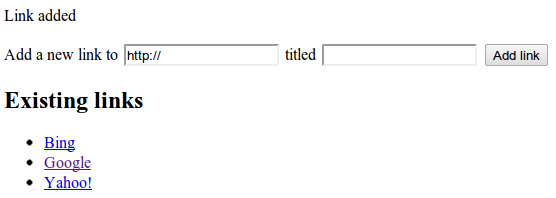
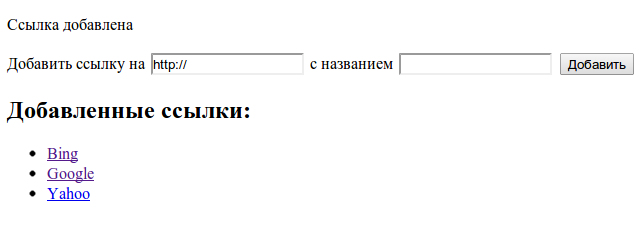
Глава 13 (ПРПРВ): выполнение #96

diff --git a/tex/13. Yesod's Monads.tex b/tex/13. Yesod's Monads.tex
@@ -1,188 +1,197 @@
 \chapter{Монады в Yesod}\label{chap:yesod_monads}
 
-Как вы уже увидели, в этой книге появлялось несколько монад: \lstinline'Handler',
-\lstinline'Widget' и \lstinline'YesodDB'
-(для \lstinline'Persistent'). Как и всякая монада, каждая из них предоставляет некоторую
-специфическую функциональность: \lstinline'Handler' предоставляет доступ к запросу и
-позволяет
-отправлять ответы, Widget содержит HTML, CSS и Javascript, а YesodDB позволяет делать
-запросы к базе данных. В терминах Model-View-Controller (MVC), мы могли бы рассматривать
-\lstinline'YesodDB' как модель, \lstinline'Widget'~--- как представление, а
-\lstinline'Handler'~--- как контроллер.
+Как вы уже увидели, в этой книге появлялось несколько монад:
+\lstinline'Handler', \lstinline'Widget' и~\lstinline'YesodDB' (для~Persistent).
+Как и всякая монада, каждая из них предоставляет некоторую специфическую
+функциональность: \lstinline'Handler' предоставляет доступ к запросу и позволяет
+отправлять ответы, \lstinline'Widget' содержит HTML, CSS и Javascript, а
+\lstinline'YesodDB' позволяет делать запросы к базе данных. В терминах
+Model-View-Controller~(MVC), мы могли бы рассматривать \lstinline'YesodDB' как
+модель, \lstinline'Widget'~--- как представление, а~\lstinline'Handler'~--- как
+контроллер.
 
-До сих пор у нас были представлены очень простые способы использования этих монад: 
-основной обработчик работает в монаде \lstinline'Handler', используя \lstinline'runDB' для
-выполнения запроса в YesodDB и \lstinline'defaultLayout' для возврата монады
-\lstinline'Widget', которая, в свою очередь, была создана
-вызовом \lstinline'toWidget'.
+До сих пор у нас были представлены очень простые способы использования этих
+монад: основной обработчик работает в монаде \lstinline'Handler', используя
+\lstinline'runDB' для выполнения запроса~\lstinline'YesodDB' и
+\lstinline'defaultLayout' для возврата~\lstinline'Widget', который, в свою
+очередь, был создан вызовом~\lstinline'toWidget'.
 
-Тем не менее, если у нас будет глубокое понимание этих типов, мы сможем достичь более интересных результатов.
+Тем не менее, если у нас будет глубокое понимание этих типов, мы сможем достичь
+более интересных результатов.
 
 \section{Трансформаторы монад}
-
-\vspace{1em}\hfill{}\begin{minipage}{150pt}{\begin{spacing}{0.9}
-\small\noindent\textit{Монады, они как луковицы. Монады не как пирожные.}\end{spacing}
-\vspace{1em}
-\hfill{}{Вроде бы Шрек.}}\vspace{2em}
+\hfill \begin{minipage}[h]{0.45\textwidth}
+    \small
+    Монады, они как луковицы. Монады \emph{не как} пирожные.
+    \begin{flushright}
+        \emph{Вроде бы Шрек}
+    \end{flushright}
 \end{minipage}
+\vspace{2em}
 
-Прежде чем мы углубимся в монады Yesod, мы должны немного понимать трансформаторы монад. 
-(Если вы уже знаете о трансформаторах монад всё, вы, скорее всего, можете пропустить этот
-раздел.) Различные монады предоставляют различную функциональность: \lstinline'Reader'
-предоставляет доступ только для чтения к некоторым данных по всему вычислению,
-\lstinline'Error' позволяет обрывать вычисления, и так далее.
+Прежде чем мы углубимся в монады Yesod, мы должны немного понимать
+трансформаторы монад.  (Если вы уже знаете о трансформаторах монад всё, вы,
+скорее всего, можете пропустить этот раздел.) Различные монады предоставляют
+различную функциональность: \lstinline'Reader' предоставляет доступ только для
+чтения к некоторым данных по всему вычислению, \lstinline'Error' позволяет
+обрывать вычисления, и так далее.
 
-Однако, часто вы захотите иметь возможность объединить функциональные возможности 
-некоторых из этих монад. В конце концов, почему бы не иметь вычисление с доступом только
-для чтения к некоторым параметрам настройки, которое в любой момент могло бы прерваться с
-ошибкой? Одним из подходов было бы написать новую монаду, например
-\lstinline'ReaderError', но это имеет очевидный недостаток экспоненциальной сложности:
-будет нужно писать новую монаду для каждой возможной комбинации.
+Часто, однако, хотелось бы иметь возможность комбинировать функциональность
+некоторых из этих монад. В конце концов, почему бы не иметь вычисление с
+доступом только для чтения к некоторым параметрам настройки, которое в любой
+момент могло бы прерваться с ошибкой? Одним из подходов к решению могло бы стать
+написание новой монады, например \lstinline'ReaderError', но это имеет очевидный
+недостаток экспоненциальной сложности: потребуется писать новую монаду для
+каждой возможной комбинации.
 
-Вместо этого мы используем трансформаторы монад. Вместе с \lstinline'Reader', у нас есть
-\lstinline'ReaderT', который добавляет функциональность \lstinline'Reader' к любой другой
-монаде. Таким образом, мы могли бы представить \lstinline'ReaderError' как
-(концептуально):
-
+Вместо этого мы используем трансформаторы монад. Вместе с \lstinline'Reader', у
+нас есть \lstinline'ReaderT', который добавляет функциональность
+\lstinline'Reader' к любой другой монаде. Таким образом, мы могли бы представить
+\lstinline'ReaderError' так (концептуально):
 \begin{lstlisting}
 type ReaderError = ReaderT Error
 \end{lstlisting}
 
-Чтобы получить доступ к параметрам настройки, мы можем использовать функцию
-\lstinline'ask'. А что насчет обрывания вычисления? Мы бы хотели вызвать
+Чтобы получить доступ к параметру настройки, мы можем использовать
+функцию~\lstinline'ask'. А что насчёт обрывания вычисления? Мы бы хотели вызвать
 \lstinline'throwError', но это не вполне будет работать. Вместо этого мы должны
-использовать \lstinline'lift', что бы втянуть наш вызов в монаду на уровень выше. Другими
-словами:
-
+использовать \lstinline'lift', чтобы втянуть наш вызов в монаду на уровень
+выше. Другими словами:
 \begin{lstlisting}
 throwError :: errValue -> Error
 lift . throwError :: errValue -> ReaderT Error
 \end{lstlisting}
-  
+
 Сейчас вы должны уловить несколько идей:
 \begin{itemize}
-\item  Трансформатор может быть использован для добавления функциональных возможностей в
-существующие монады.
-\item  Трансформатор должен всегда обёртываться вокруг существующей монады.
-\item  Функциональные возможности получившейся монады будут зависеть не только от
-трансформатора монады, но и от монады, обёрнутой внутри.
+    \item  Трансформатор может быть использован для добавления функциональных
+        возможностей к существующим монадам.
+    \item  Трансформатор должен всегда обёртываться вокруг существующей монады.
+    \item  Функциональные возможности получившейся монады будут зависеть не
+        только от трансформатора монады, но и от монады, обёрнутой внутри.
 \end{itemize}
 
-Отличный пример последнего утверждения~--- это монада \lstinline'IO'. Независимо от того,
-сколько слоев трансформаторов у вас есть вокруг \lstinline'IO', там всё ещё есть ядро
-\lstinline'IO', то есть вы можете выполнять I/O в любом из этих стеков трансформаторов
-монад. Вы будете часто видеть код, который выглядит как 
-\lstinline'liftIO $ putStrLn "Hello There!"'.
+Отличный пример последнего утверждения~--- это монада \lstinline'IO'. Независимо
+от того, сколько слоёв трансформаторов у вас есть вокруг \lstinline'IO', там всё
+ещё есть ядро \lstinline'IO', то есть вы можете выполнять ввод/вывод в любом из
+этих стеков трансформаторов монад. Вы будете часто видеть код, который выглядит
+как \lstinline'liftIO $ putStrLn "Привет вам!"'.
 
 \section{Три трансформатора}
-
-Мы уже обсуждали два трансформатора ранее: \lstinline'Handler' и \lstinline'Widget'.
-Напомним два особых факта про них:
+Мы уже обсуждали два из наших трансформаторов ранее: \lstinline'Handler'
+и~\lstinline'Widget'. Напомним два особых факта про них:
 \begin{itemize}
-\item  С целью улучшения сообщений об ошибках, они не являются фактическими
-трансформаторами. Вместо этого, они объявлены как \lstinline'newtype' с жёстко заданной
-внутренней монадой. 
-\begin{remark}Помните, что именно поэтому Yesod предоставляет специальную функцию
-\lstinline'lift', которая работает для \lstinline'Handler' и \lstinline'Widget'.
-\end{remark}
-\item  На самом деле у них есть дополнительные параметры типа для дополнительного и
-основного сайта. В результате, библиотеки Yesod предоставляют 
-\lstinline'GHandler sub master a' и \lstinline'GWidget sub master a', и каждый сайт
-получает пару синонимов типов \lstinline'type Handler = GHandler MyApp MyApp' и
-\lstinline'type Widget = GWidget MyApp MyApp ()'.
+    \item  Для упрощения сообщений об ошибках они не являются фактическими
+        трансформаторами. Вместо этого, они объявлены как \lstinline'newtype' с
+        жёстко заданной внутренней монадой.
+
+        \begin{remark}
+            Помните, что именно поэтому Yesod предоставляет специальную функцию
+            \lstinline'lift', которая работает для \lstinline'Handler'
+            и~\lstinline'Widget'.
+        \end{remark}
+    \item  На самом деле у них есть дополнительные параметры для типов подсайта
+        и основного сайта. В результате, библиотеки Yesod предоставляют
+        \lstinline'GHandler sub master a' и \lstinline'GWidget sub master a', а
+        каждый сайт получает пару синонимов типов
+        \lstinline'type Handler = GHandler MyApp MyApp'
+        и~\lstinline'type Widget = GWidget MyApp MyApp ()'.
 \end{itemize}
 
-В пакете \hyperref[chap:persistent]{Persistent}, у есть класс типов который называется
-\lstinline'PersistStore'. Этот класс типов
-определяет все примитивные операции которые можно выполнять с базой данных, к примеру
-получать данные (\lstinline'get'). Этот класс типов по существу выглядит как 
-\lstinline'class (Monad (b m)) => PersistStore b m'. Где \lstinline'b' определяет сервер
-базы данных, а на самом деле является трансформатором монады, а \lstinline'm' является
-внутренней монадой, которую \lstinline'b' оборачивает. И SQL, и MongoDB имеют свои
-собственные экземпляры; в случае SQL, он выглядит
+В пакете
+\footnotehref{http://hackage.haskell.org/package/persistent}{persistent}, есть
+класс типов~\lstinline'PersistStore'. Этот класс типов определяет все
+примитивные операции, которые можно выполнять с базой данных, например,
+\lstinline'get'. Этот класс типов по существу выглядит как
+\lstinline'class (Monad (b m)) => PersistStore b m'. Где \lstinline'b'
+определяет сервер базы данных, а на самом деле является трансформатором монады,
+а \lstinline'm' является внутренней монадой, которую \lstinline'b' оборачивает.
+И SQL, и MongoDB имеют свои собственные экземпляры; в случае SQL, он выглядит
 так:
-
 \begin{lstlisting}
 instance MonadBaseControl IO m => PersistBackend SqlPersist m
 \end{lstlisting}
 
-Это означает, что вы можете работать с базой данных SQL при любой базовой монаде, до тех 
-пор, пока эта монада поддерживает \lstinline'MonadBaseControl IO', что позволяет правильно
-обрабатывать исключения на стеке монад. В общем, это означает означает любой стек
-трансформаторов, построенный вокруг \lstinline'IO' (кроме исключительных случаев, как
-\lstinline'ContT'). К счастью для нас, это включает в себя как \lstinline'Handler' так и
-\lstinline'Widget'. Следовательно мы можем наслаивать наш Persistent трансформатор на
-\lstinline'Handler' или \lstinline'Widget'.
+Это означает, что вы можете работать с базой данных SQL при любой базовой
+монаде, до тех пор, пока эта монада поддерживает \lstinline'MonadBaseControl IO',
+позволяющую правильно обрабатывать исключения на стеке монад. В общем,
+это означает любой стек трансформаторов, построенный вокруг \lstinline'IO'
+(кроме исключительных случаев, как \lstinline'ContT'). К счастью для нас, это
+включает в себя как \lstinline'Handler' так и \lstinline'Widget'. Следовательно,
+мы можем наслаивать наш Persistent трансформатор на \lstinline'Handler'
+или~\lstinline'Widget'.
 
 \begin{remark}
-Это не всегда было так. Перед Yesod 0.10, Yesod был построен на базе пакета enumerators, 
-который не поддерживает \lstinline'MonadBaseControl'. В Yesod 0.10, мы перешли к пакету 
-\href{http://hackage.haskell.org/package/conduit}{conduit}\footnotemark,
-который значительно упрощает всё, что мы здесь обсуждаем.
+Это не всегда было так. Перед Yesod 0.10, Yesod был построен на базе пакета
+\texttt{enumerators}, который не поддерживает \lstinline'MonadBaseControl'. В
+Yesod 0.10, мы перешли к пакету
+\href{http://hackage.haskell.org/package/conduit}{conduit}\footnotemark, который
+значительно упрощает всё, что мы здесь обсуждаем.
 \end{remark}
 \footnotetext{\href{http://hackage.haskell.org/package/conduit}{\texttt{http://hackage.haskell.org/package/conduit}}}
 
-Для того, чтобы упростить обращение к соответствующим Persistent трансформаторам, пакет 
+Для того, чтобы упростить обращение к соответствующим Persistent
+трансформаторам, пакет
 \footnotehref{http://hackage.haskell.org/package/yesod-persistent}{yesod-persistent}
- определяет
-ассоциированный тип \lstinline'YesodPersistBackend'. Например, если у нас есть сайт
-который называется \lstinline'MyApp' и использует SQL, мы можем определить что-то вроде 
+определяет ассоциированный тип~\lstinline'YesodPersistBackend'. Например, если у
+нас есть сайт, который называется \lstinline'MyApp' и использует SQL, мы можем
+определить что-то вроде
 \lstinline'type instance YesodPersistBackend MyApp = SqlPersist'.
 
 Когда мы захотим выполнить наши действия с базой данных, у нас будет
-\lstinline'SqlPersist' обернутый вокруг \lstinline'Handler' или \lstinline'Widget'. Так мы
-сможем использовать стандартные функции развертки Persistent (например,
-\lstinline'runSqlPool') для исполнения действия и возврата в нормальный
-\lstinline'Handler/Widget'. Для автоматизации этого, предоставляется функция
-\lstinline'runDB'. Суммируя все это, мы теперь можем исполнять действия с базой данных
-внутри наших обработчиков и виджетов.
+\lstinline'SqlPersist', обёрнутый вокруг \lstinline'Handler' или
+\lstinline'Widget'. Так мы сможем использовать стандартные функции развёртки
+Persistent (например, \lstinline'runSqlPool') для исполнения действия и возврата
+в нормальный \lstinline'Handler/Widget'. Для автоматизации этого,
+предоставляется функция \lstinline'runDB'. Суммируя всё это, мы теперь можем
+исполнять действия с базой данных внутри наших обработчиков и виджетов.
 
-Большую часть времени в коде Yesod, особенно до сих пор, виджеты рассматривались как 
-контейнеры без возможности действий, которые просто объединяют вместе HTML, CSS и
-Javascript. Но если вы посмотрите на последний абзац еще раз, вы поймете, что это не
-совсем так. Поскольку виджет это трансформатор над обработчиком, всё что вы делаете в
-обработчике может быть сделано в виджете, в том числе и операции с базой данных. Все, что
-вам нужно сделать, это протянуть вызов, используя \lstinline'lift'.
+Большую часть времени в коде Yesod, и особенно на протяжении предыдущих глав,
+виджеты рассматривались как контейнеры, которые просто объединяют вместе HTML,
+CSS и Javascript и не содержат действий. Но если вы посмотрите на последний
+абзац ещё раз, вы поймёте, что это не обязательное требование. Поскольку
+виджет~--- это трансформатор над обработчиком, всё, что вы делаете в
+обработчике, может быть сделано в виджете, в том числе и операции с базой
+данных. Всё, что вам нужно сделать,~--- это протянуть вызов, используя
+\lstinline'lift'.
 
 \section{Пример: навигационная панель на основе базы данных}
-
-Давайте применим некоторые из новых знаний на практике. Мы хотим создать
-\lstinline'Widget', который генерирует свой вывод на основе содержимого базы данных. Ранее
-мы бы загрузили данные в \lstinline'Handler', а затем передали эти данные в
-\lstinline'Widget'. Теперь загрузим данные в самом \lstinline'Widget'. Это хорошо для
-модульности, так как этот \lstinline'Widget' сможет использоваться в любом
-\lstinline'Handler', каком мы захотим, без необходимости передавать содержимое базы
-данных.
+Давайте применим некоторые из новых знаний на практике. Мы хотим сделать виджет,
+который генерирует свой вывод на основе содержимого базы данных. Ранее мы бы
+загрузили данные в обработчике, а затем передали эти данные в виджет. Теперь же
+загрузим данные в самом виджете. Это хорошо для модульности, так как этот виджет
+может использоваться в любом обработчике по нашему желанию, без необходимости
+передавать содержимое базы данных.
 
 \lstinputlisting{../hs/13-navbar.hs}
 
-В частности обратите внимание на функцию \lstinline'existingLinks'. Видите, что всё, что
-нужно сделать, это применить \lstinline'lift' к нормальному действию с базой данных. А в
-\lstinline'getRootR', мы трактуем \lstinline'existingLinks' как обычный
-\lstinline'Widget', вообще без каких-либо специальных параметров. Смотрите на рисунке
-вывод этого приложения.
+В частности, обратите внимание на функцию \lstinline'existingLinks'. Заметьте,
+всё, что нужно сделать,~--- это применить \lstinline'lift' к обычному действию с
+базой данных. А в \lstinline'getRootR', мы трактуем \lstinline'existingLinks'
+как обычный виджет без каких-либо специальных параметров вообще. На
+рисунке представлен вывод этого приложения.
 
 \begin{figure}[tbh]
   \centering
-  \caption{Скриншот панели навигации}
   \includegraphics[scale=0.5]{13-yesods-monads-image-01.png}
+  \caption{Скриншот панели навигации}
 \end{figure}
 
-\section{Пример: запрос информации}
-
-Таким же образом вы можете получить информацию по запросу внутри \lstinline'Widget'. В
-этом примере мы определяем порядок сортировки списка на основе GET параметров.
+\section{Пример: информация из запроса}
+Таким же образом вы можете получить информацию из запроса внутри виджета. В
+примере ниже мы определяем порядок сортировки списка на основе значения
+параметра GET-запроса.
 
 \lstinputlisting{../hs/13-request-information.hs}
 
-Повторим, всё что нужно сделать, это протянуть функцию стандартную для \lstinline'Handler'
-(в данном случае, \lstinline'runInputGet'), чтобы исполнить её в нашем \lstinline'Widget'.
+Повторим, всё, что нужно сделать,~--- это протянуть функцию стандартную для
+обработчика (в данном случае, \lstinline'runInputGet'), чтобы выполнить её в
+нашем виджете.
 
 \section{Выводы}
-
-Если вы полностью проигнорировали эту главу, вы все равно сможете с большой пользой 
-использовать Yesod. Преимущество понимания того, как взаимодействуют монады Yesod, в том,
-чтобы иметь возможность производить более чистый и более модульный код. Способность
+Если вы полностью пропустили эту главу, вы всё равно сможете с большой пользой
+использовать Yesod. Преимущество понимания как взаимодействуют монады
+Yesod~--- возможность производить более чистый и более модульный код. Способность
 выполнять произвольные действия в \lstinline'Widget' может быть мощным инструментом, и
 понимание того, как взаимодействуют \lstinline'Persistent' и ваш \lstinline'Handler' код,
 может помочь вам сделать более обоснованные проектные решения в вашем приложении.
